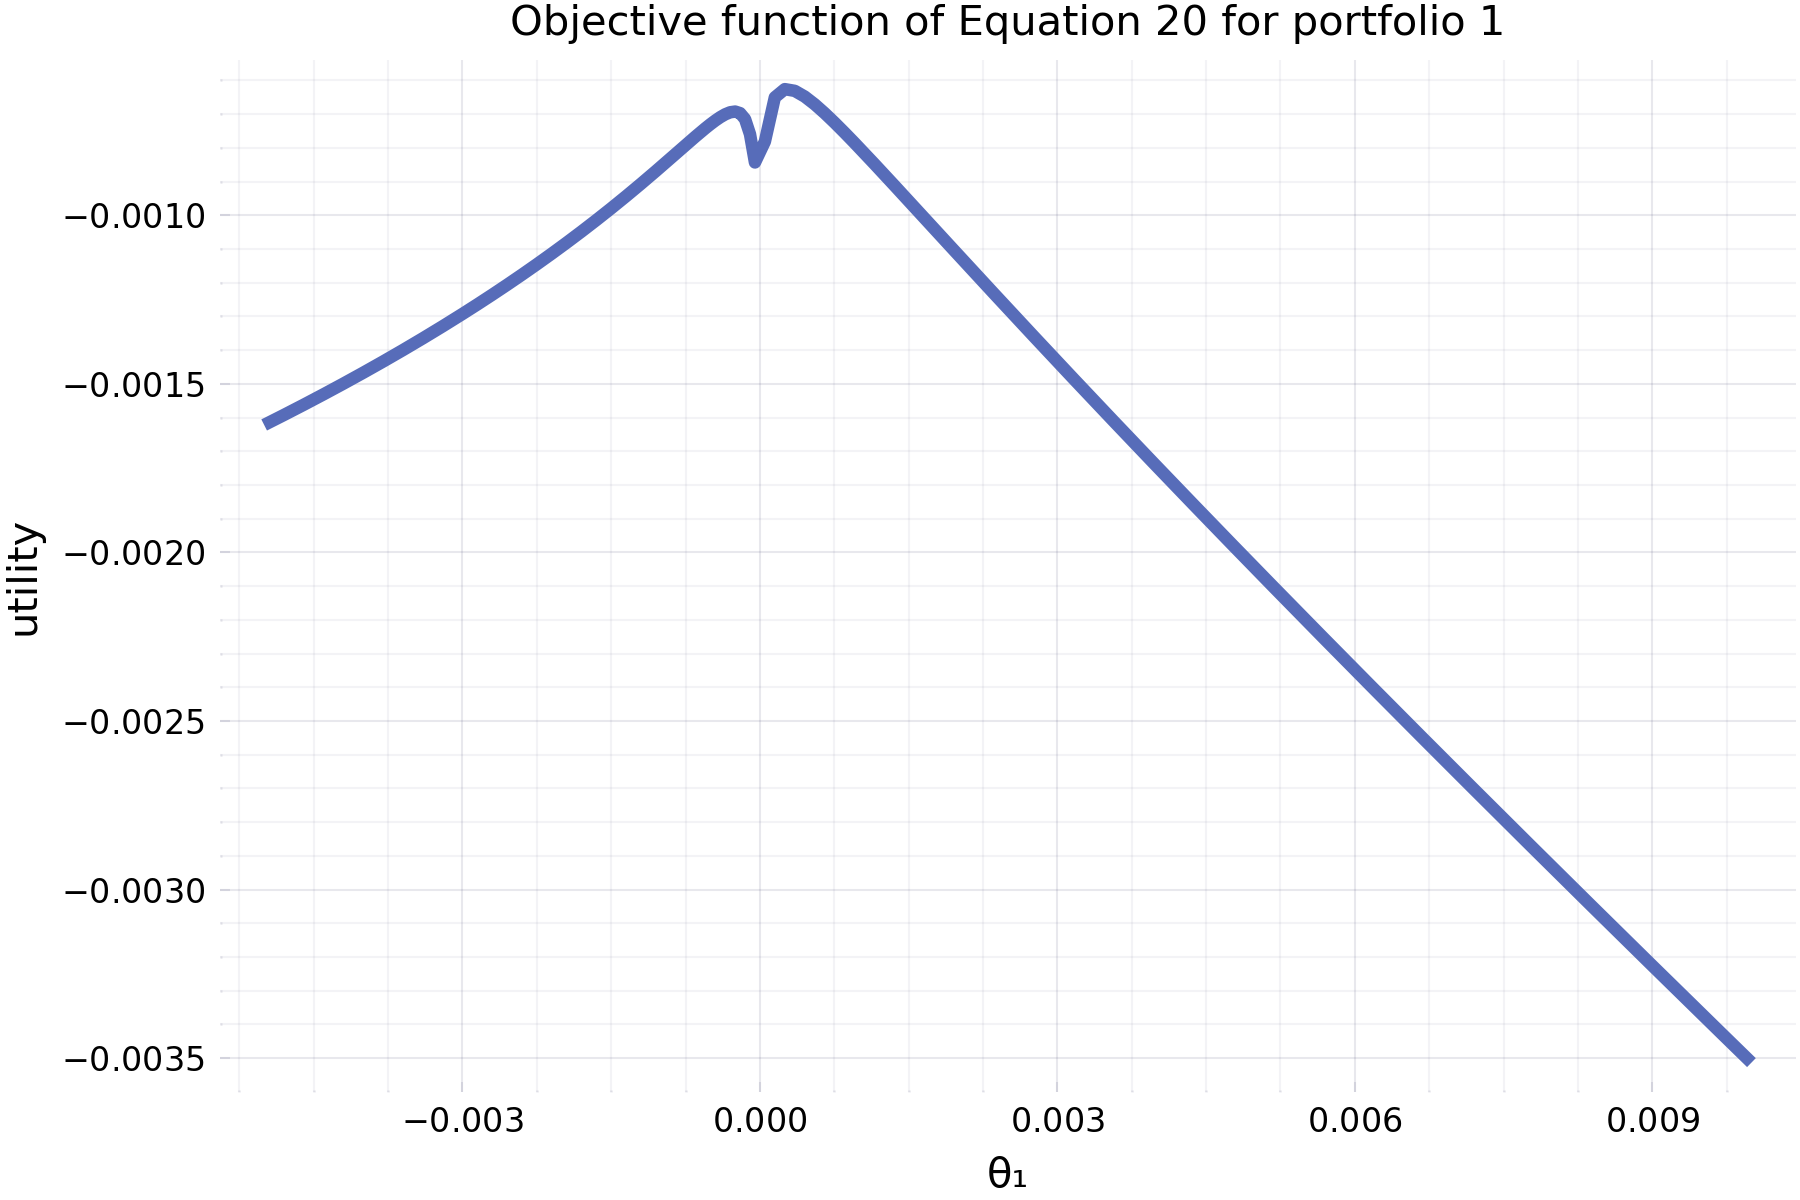
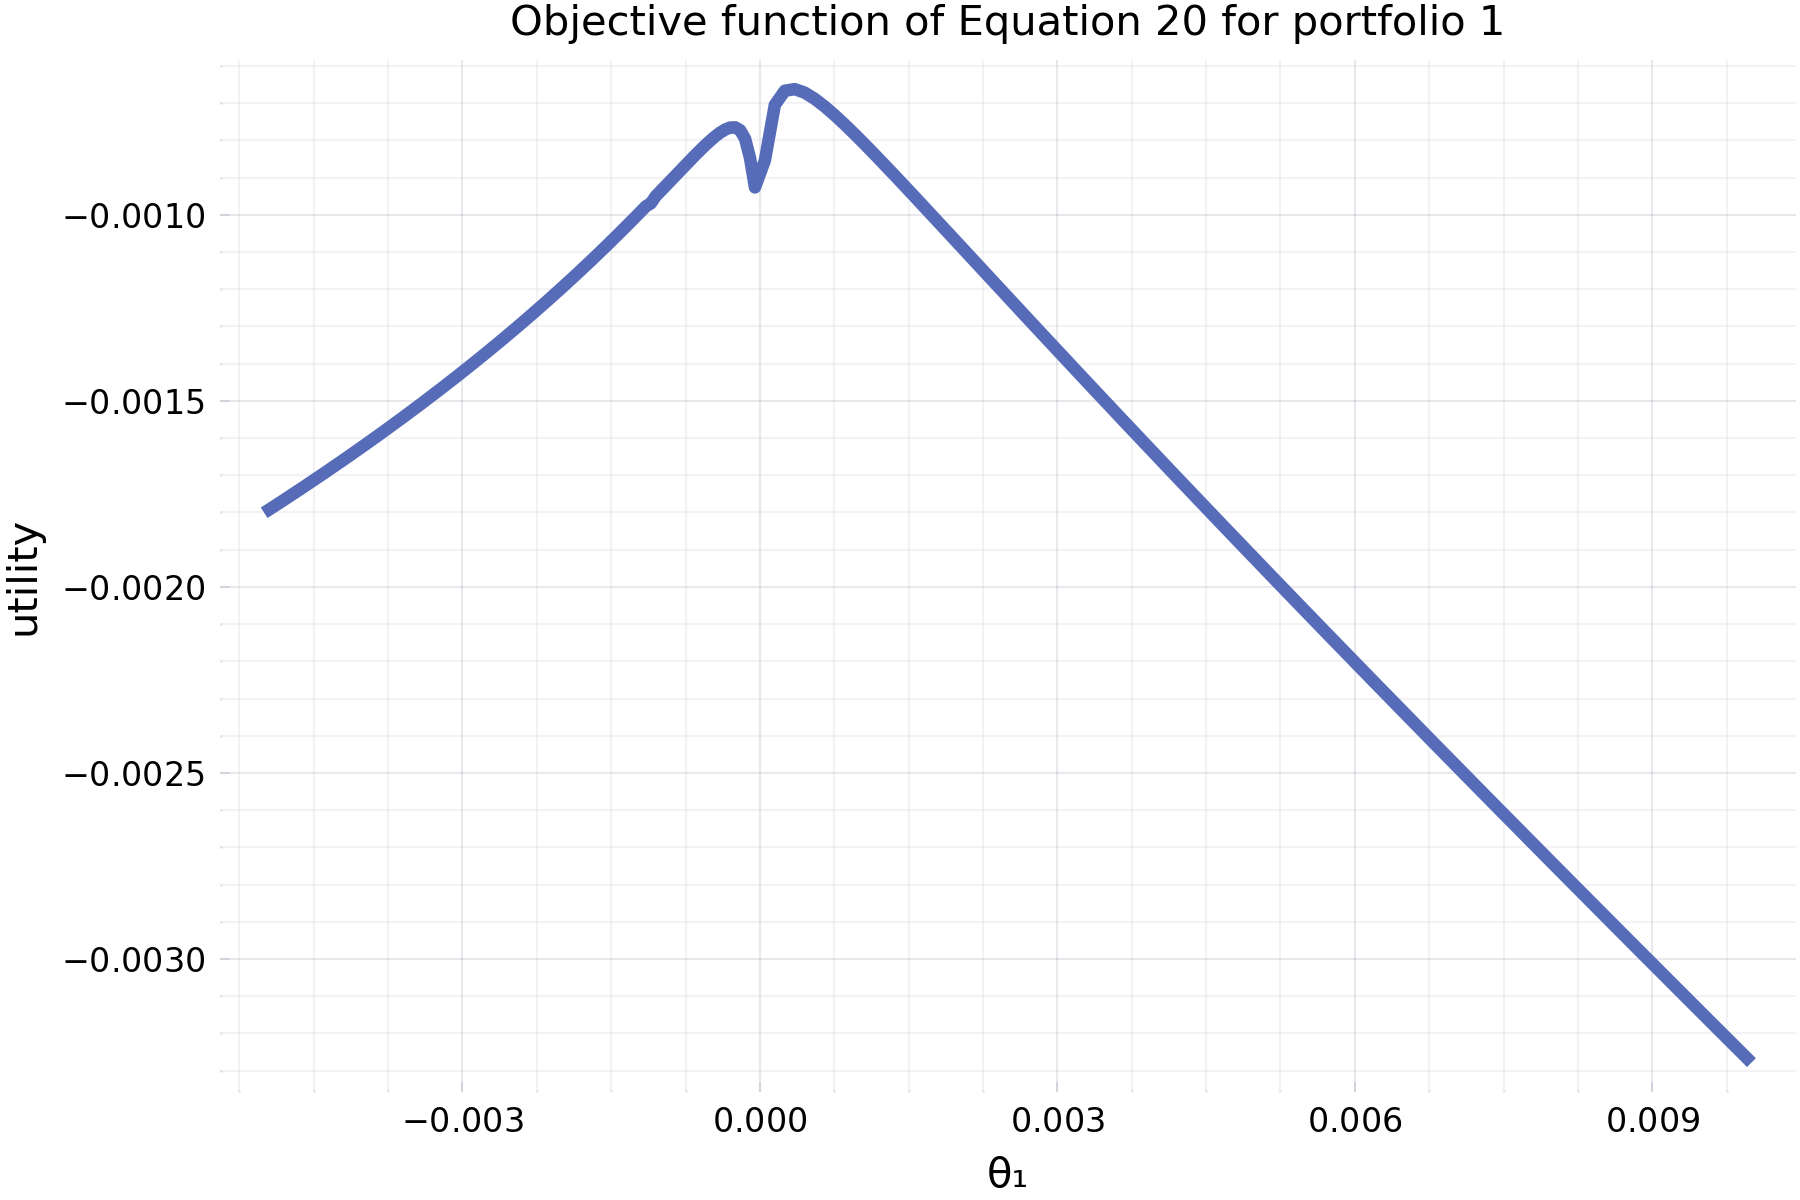
pushing

diff --git a/py_code/alpha_code.py b/py_code/alpha_code.py
@@ -31,21 +31,21 @@ model_data.loc[model_data['credit_spread_start'] > 0.1, 'portfolio'] = 'DI'
 model_data.loc[model_data['portfolio'].isnull() & (model_data['rating_class_start'] == '0.IG'), 'portfolio'] = 'IG'
 model_data.loc[model_data['portfolio'].isnull() & (model_data['rating_class_start'] == '1.HY'), 'portfolio'] = 'HY'
 
-# # Split DI into DI_low and DI_high based on cap_gain_overhang_start threshold (-5)
-# for month in unique_months:
-#     # Filter for DI bonds in the current month
-#     di_mask = (model_data['eom'] == month) & (model_data['portfolio'] == 'DI')
-#     di_bonds = model_data.loc[di_mask]
+# Split DI into DI_low and DI_high based on cap_gain_overhang_start threshold (-10)
+for month in unique_months:
+    # Filter for DI bonds in the current month
+    di_mask = (model_data['eom'] == month) & (model_data['portfolio'] == 'DI')
+    di_bonds = model_data.loc[di_mask]
     
-#     if len(di_bonds) > 0:
-#         # Assign DI_high to bonds with cap_gain_overhang_start > -5
-#         high_indices = di_bonds[di_bonds['cap_gain_overhang_start'] > -10].index
+    if len(di_bonds) > 0:
+        # Assign DI_high to bonds with cap_gain_overhang_start > -10
+        high_indices = di_bonds[di_bonds['cap_gain_overhang_start'] > -10]  .index
         
-#         # Assign DI_low to bonds with cap_gain_overhang_start <= -5
-#         low_indices = di_bonds[di_bonds['cap_gain_overhang_start'] <= -10].index
+        # Assign DI_low to bonds with cap_gain_overhang_start <= -10
+        low_indices = di_bonds[di_bonds['cap_gain_overhang_start'] <= -10].index
         
-#         model_data.loc[high_indices, 'portfolio'] = 'DI_high'
-#         model_data.loc[low_indices, 'portfolio'] = 'DI_low'
+        model_data.loc[high_indices, 'portfolio'] = 'DI_high'
+        model_data.loc[low_indices, 'portfolio'] = 'DI_low'
 
 ### Calculating returns for portfolios
 groups = model_data['portfolio'].dropna().unique().tolist()
@@ -225,14 +225,14 @@ print(texc_regression_df)
 # print("Standard deviation of excess return:\n" + exc_returns_std.to_string())
 # print("Sharpe ratio:\n" + exc_returns_sharpe.to_string())
 
-# # Cumulative return
-# cum_return = (1 + texc_regression_df['market_ret_texc']).prod() - 1
+# Cumulative return
+cum_return = (1 + texc_regression_df['DI_high']).prod() - 1
 
 # Number of months
 n_months = texc_regression_df.shape[0]
 
-# # Annualized return
-# annualized_return = (1 + cum_return) ** (12 / n_months) - 1
+# Annualized return
+annualized_return = (1 + cum_return) ** (12 / n_months) - 1
 
-# print(f"Cumulative pure credit market return: {cum_return:.4%}")
-# print(f"Annualized pure credit market return: {annualized_return:.4%}")
+print(f"Cumulative pure credit market return: {cum_return:.4%}")
+print(f"Annualized pure credit market return: {annualized_return:.4%}")
